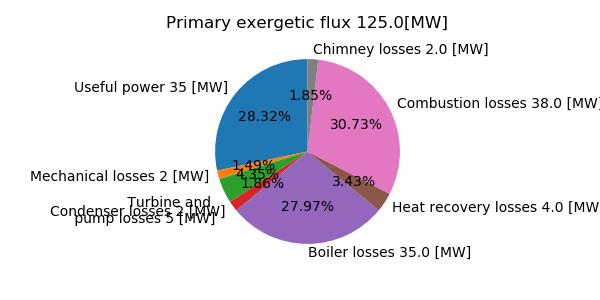
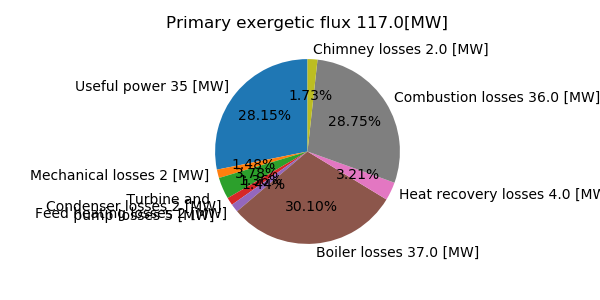
ST_feed for one

diff --git a/ST_feed2.py b/ST_feed2.py
@@ -16,6 +16,15 @@ import matplotlib.pyplot as plt
 from pyXSteam.XSteam import XSteam # see documentation here: https://pypi.org/project/pyXSteam/
 
 # Add your packages here:
+steamTable = XSteam(XSteam.UNIT_SYSTEM_MKS); # m/kg/sec/°C/bar/W
+def cpl_t(T):
+    return steamTable.CpL_t(T)
+def Xsteam_integrate(f,T1,T2,dt):
+    values = np.arange(T1,T2,dt)
+    fvalues = np.zeros(len(values))
+    for i in range(len(fvalues)):
+        fvalues[i] = f(values[i])
+    return sum(fvalues*dt)
 
 def psychrometrics(Tdb,absolute_humidity):
     """
@@ -82,7 +91,7 @@ def ST(ST_inputs):
         Pe = 250e3;#250 kWe
     nsout = arg_in.nsout;
     if nsout ==-1.:
-        nsout = 1;#15°C
+        nsout = 0;#15°C
     reheat = arg_in.reheat
     if reheat == -1:
         reheat = 0;# Number of reheating
@@ -154,9 +163,8 @@ def ST(ST_inputs):
 
     # Put all temperatures in Kelvin
     T_max,T_cond_out, T_exhaust, T0, T_ext, T_drum= T_max+273.15,T_cond_out+273.15, T_exhaust+273.15, T0+273.15, T_ext+273.15, Tdrum +273.15 #K
-    print(nsout)
-    results = np.zeros((6,4+2*nsout+2*reheat)) # 6 initial states, states 1,2,3,6 if no reheat then 7 = 1 states 4 and 5 is for the reheating
 
+    results = np.zeros((6,5+2*nsout+2*reheat)) # 6 initial states, states 1,2,3,6,7 if no reheat then 7 = 1 states 4 and 5 is for the reheating
     ## cycle definition
     # =================
     # Your job
@@ -177,7 +185,7 @@ def ST(ST_inputs):
     #        As a conclusion, what can we do to decrease this loss?
 
     """
-    1) Initial
+    1) Pump
     """
     T1= T_cond_out+TpinchCond
     p1 = steamTable.psat_t(T1-273.15)
@@ -188,7 +196,6 @@ def ST(ST_inputs):
     e1 = h1-T0*s1#kJ/kg
     results[:,0]=T1-273.15,p1,h1,s1,x1,e1
 
-
     p2=p3_hp#bar
     #s2=s1
     # h2s=steamTable.h_ps(p2,s1)
@@ -198,8 +205,7 @@ def ST(ST_inputs):
     s2 = steamTable.s_ph(p2,h2)
     x2= None # eau non saturée
     e2 = h2-T0*s2#kJ/kg
-    results[:,1+nsout]=T2-273.25,p2,h2,s2,x2,e2
-
+    results[:,1]=T2-273.25,p2,h2,s2,x2,e2
 
     """
     2) Boiler
@@ -212,7 +218,9 @@ def ST(ST_inputs):
     s3=steamTable.s_pt(p3,T3-273.15)
     x3 = None # vapeur surchauffée
     e3 = h3-T0*s3#kJ/kg
-    results[:,2+nsout]=T3-273.35,p3,h3,s3,x3,e3
+    results[:,2]=T3-273.35,p3,h3,s3,x3,e3
+
+    Q1 = h3-h2 #kJ/kg_v
 
     """
     3) Turbine
@@ -227,7 +235,7 @@ def ST(ST_inputs):
     s62 = x6*steamTable.sV_p(p6)+(1-x6)*steamTable.sL_p(p6)
     T6 = steamTable.t_ph(p6,h6)+273.15#K
     e6 = h6-T0*s6 #kJ/kg#kJ/kg
-    results[:,3+2*nsout]=T6-273.15,p6,h6,s6,x6,e6
+    results[:,3]=T6-273.65,p6,h6,s6,x6,e6
 
     """
     4) FWH
@@ -248,13 +256,16 @@ def ST(ST_inputs):
         dt = 0.1
 
         hb1 = steamTable.hL_t(x-273.15) #kJ/kg_v
-        pb1 = steamTable.psat_t(x-273.15) #bar
+        def function_FHW_p(y): #x = bar
+            hobbit = steamTable.hL_p(y)
+            return hb1-hobbit
 
+        pb1 = fsolve(function_FHW_p,4) #bar
         #find state 61
         p61=pb1 #isobare
+        print('pb1',pb1, steamTable.psat_t(x-273.15))
         h61s = steamTable.h_ps(p61,s3)
         h61 = -eta_SiT*(h3-h61s)+h3
-
         #enthalpie ratio
         X= (hb1-h1)/(h61-hb1)
 
@@ -276,33 +287,56 @@ def ST(ST_inputs):
     sb1 = steamTable.sL_t(Tb1-273.15) #kJ/kg
     xb1=0
     eb1 = hb1-T0*sb1
-    i=0 # i =range(nsout)
-    results[:,1+i]=Tb1-273.15,pb1,hb1,sb1,xb1,eb1
 
     #state 6I
-    p61=pb1 #isobare
-    h61s = steamTable.h_ps(p61,s3)
-    h61 = -eta_SiT*(h3-h61s)+h3
-    T61 = steamTable.t_ph(p61,h61)+273.15
-    s61 = steamTable.s_ph(p61,h61)
-    x61 = None
-    e61 = h61-T0*s61
-    results[:,3+nsout+i]=T61-273.35,p61,h61,s61,x61,e61
+    print(T1,Tb1,T2_prime)
 
-    X= (hb1-h1)/(h61-hb1)
+    #maniere B
+    # trouver h6I
+    #h6I = 0.5*(h3-h6)+h6
+    # #trouver la pression correspondante
+    # def function_FWH_pressure(x):
+    #     h6Is = steamTable.h_ps(x,s3)
+    #     return (h6I-h6)/(h6Is-h6)-eta_SiT
+    # p6I = fsolve(function_FWH_pressure,4)
+    # T6I = steamTable.t_ph(p6I,h6I)
+    # s6I = steamTable.s_ph(p6I,h6I)
+    # x6I = None
+    # e6I = h6I-T0*s6I
+    # print(T6I)
 
-    """
-    4) pump
-    """
-    p2=p3_hp#bar
-    h2=v1*(p2-pb1)*10**2/eta_SiC+hb1#kJ/kg
-    T2= steamTable.t_ph(p2,h2)+273.15#K
-    s2 = steamTable.s_ph(p2,h2)
-    x2= None # eau non saturée
-    e2 = h2-T0*s2#kJ/kg
-    results[:,1+nsout]=T2-273.25,p2,h2,s2,x2,e2
+    #trouver  l 'etat b
+    # TbI = steamTable.tsat_p(p6I)
 
-    Q1 = (1+X)*(h3-h2) #kJ/kg_v
+    #maniere C
+    # hb1 = 0.5*(h2_prime-h1)+h1
+    #
+    # def function_FHW_p(x): #x = bar
+    #     hobbit = steamTable.hL_p(x)
+    #     return hb1-hobbit
+    # pb1 = fsolve(function_FHW_p,4)
+    # p61 = pb1
+    #
+    # #trouver les etats b1
+    # Tb1 = steamTable.tsat_p(pb1)
+    # sb1 = steamTable.s_ph(pb1,hb1)
+    # print('sb1',sb1)
+    # xb1 = 0
+    # eb1 = hb1-T0*sb1
+    #
+    # #trouver h6I et ensuite les etats de b
+    # h61s = steamTable.h_ps(p61,s3)
+    # h61 = -eta_SiT*(h3-h61s)+h3
+    # T61 = steamTable.t_ph(p61,h61)
+    # s61 = steamTable.s_ph(p61,h61)
+    # x61 = None
+    # e61 = h61-T0*s61
+    # print('h61',h61,'T61',T61)
+    #
+    #
+    # X = (hb1-h1)/(h61-hb1)
+    # print('X',X)
+
 
     """
     5) Condenser
@@ -317,13 +351,21 @@ def ST(ST_inputs):
     e_cond_water_in = h_cond_water_in-T0*s_cond_water_in
     e_cond_water_out = h_cond_water_out-T0*s_cond_water_out
 
+    # h_lv = steamTable.hV_t(T4-273.15)-steamTable.hL_t(T4-273.15)
+    # print(h_lv)
+    # Cpl = steamTable.CpL_t(T1-273.15)
+    # print(h_lv+Cpl*(T6-T1),Q2,"here")
+    # print('Cpl',Cpl,steamTable.CpL_t(T1-273.15))
+    #results del l 'etat 7
+    results[:,4]=T1-273.15,p1,h1,s1,x1,e1
+
     """
     6) Mechanical work:
     """
-    Wm_t = h3-h6 + X*(h3-h61) #kJ/kg
-    Wm_tmax = e3-e6 + X*(e3-e61)
-    Wm_c = h2-hb1
-    Wm_cmax = e2-eb1
+    Wm_t = h3-h6
+    Wm_tmax = e3-e6
+    Wm_c = h2-h1
+    Wm_cmax = e2-e1
     Wm = Wm_t-Wm_c
     Wm_max = Wm_tmax-Wm_cmax
 
@@ -358,7 +400,7 @@ def ST(ST_inputs):
     P_chimney = boiler_outputs.P_chimney
     #P_prim = P_boiler+P_chimney #-P_air_in mais =0 = +/- LHV*mc
     P_prim = boiler_outputs.LHV*mc
-    print("energie chequ up",P_prim,P_chimney+Pf_mec+P_cond+Pe)
+    # print("energie chequ up",P_prim,P_chimney+Pf_mec+P_cond+Pe)
     # print("P_chimney",P_chimney,"Q_boiler",Q_boiler,"P_cond",P_cond,"Pf_mec",Pf_mec,"Pe",Pe)
     """
     11) Exergy efficiencies
@@ -391,20 +433,19 @@ def ST(ST_inputs):
     L_HR = boiler_outputs.L_HR
     L_exhaust = boiler_outputs.L_exhaust
 
+
+
     L_boiler = mv*(e2-e3)+mf*(e_boiler_in-e_boiler_out)
 
-    m_cond = 1/(1+X)*mv
-    ms = X/(1+X)*mv
+    L_turbine = T0*(s6-s3)*mv
+    L_pump = T0*(s2-s1)*mv#kW
 
-    L_turbine = T0*(s6-s3)*m_cond + T0*(s6-s61)*ms
-    L_pump = T0*(s2-sb1)*mv#kW
+    L_cond=mv*(e6-e1)+mv*massflow_condenser_coeff*(e_cond_water_in-e_cond_water_out)
 
-    L_cond=m_cond*(e6-e1)+m_cond*massflow_condenser_coeff*(e_cond_water_in-e_cond_water_out)
-    L_exchanger_soutex = ms*(e61-eb1)+m_cond*(e1-eb1)
     #Il manque ce qui sort de la tour de refroidissement
 
     ec = boiler_outputs.e_c
-    print('exegie chequ up',ec*mc,Pe+Pf_mec+L_turbine+L_pump+L_boiler+L_cond+L_exhaust+L_HR+L_comb+L_exchanger_soutex)
+    print('exegie chequ up', ec*mc,Pe+Pf_mec+L_turbine+L_pump+L_boiler+L_cond+L_exhaust+L_HR+L_comb)
 
     """
     Last) Define output arguments
@@ -412,7 +453,6 @@ def ST(ST_inputs):
     outputs = ST_arg.ST_outputs();
     outputs.eta[0:]= [eta_cyclen,eta_toten,eta_cyclex,eta_totex,eta_gen,eta_gex,eta_combex,eta_chemex,eta_condex,eta_transex]
     outputs.daten[0:]=[P_chimney, Pf_mec, P_cond]
-    outputs.datex[0:]=[Pf_mec,0,0,L_comb,L_cond,L_exhaust,0]
     outputs.dat= results
     outputs.massflow = boiler_outputs.boiler_massflow #[ma,0,mc,mf]
     outputs.massflow[1] = mv
@@ -430,35 +470,6 @@ def ST(ST_inputs):
     outputs.HR.T_cold_in = boiler_outputs.T_cold_in
     outputs.HR.T_cold_out = boiler_outputs.T_cold_out
     outputs.HR.T_dew = boiler_outputs.T_dew #still gave to define
-
-    """
-    13) Pie charts and cycle graphs
-    """
-    # pie chart of the energie flux in the cycle
-    fig,ax =  plt.subplots(figsize=(6, 3), subplot_kw=dict(aspect="equal"))
-    data = [Pe,Pf_mec,P_cond,P_chimney]
-    labels = ['Useful power {v} [MW]'.format(v=round(Pe/1000)),'Mechanical losses {v} [MW]'.format(v=round(Pf_mec/1000)),'Condensor losses {v} [MW]'.format(v=round(P_cond/1000)),'Chimney losses {v} [MW]'.format(v=round(P_chimney/1000))]
-
-    ax.pie(data,labels = labels,autopct='%1.2f%%',startangle = 90)
-    ax.set_title("Primary energetic flux "+ str(round(P_prim/1000)) + "[MW]")
-
-    # pie chart of the exergie flux in the cycle
-    fig2,ax =  plt.subplots(figsize=(6, 3), subplot_kw=dict(aspect="equal"))
-    data = [Pe,Pf_mec,L_turbine+L_pump,L_cond,L_exchanger_soutex,L_boiler,L_HR,L_comb,L_exhaust]
-    labels = ['Useful power {v} [MW]'.format(v=round(Pe/1000)),'Mechanical losses {v} [MW]'.format(v=round(Pf_mec/1000)),' \n \n Turbine and \n pump losses {v} [MW]'.format(v=round((L_turbine+L_pump)/1000)),
-              'Condenser losses {v} [MW]'.format(v=round(L_cond/1000)),'Feed heating losses {v} [MW]'.format(v=round(L_exchanger_soutex/1000)),
-              'Boiler losses {v} [MW]'.format(v=round(L_boiler/1000)),'Heat recovery losses {v} [MW]'.format(v=round(L_HR/1000)),
-              'Combustion losses {v} [MW]'.format(v=round(L_comb/1000)),'Chimney losses {v} [MW]'.format(v=round(L_exhaust/1000))]
-    plt.savefig('figures/energie_pie.png')
-
-    ax.pie(data,labels = labels,autopct="%1.2f%%",startangle = 90)
-    ax.set_title("Primary exergetic flux "+ str(round(ec*mc/1000)) + "[MW]")
-    plt.savefig('figures/exergie_pie.png')
-
-    fig = [fig,fig2]
-    outputs.fig = fig
-    if (ST_inputs.DISPLAY == 1):
-        plt.show()
 
     return outputs;
 

diff --git a/ST.py b/ST.py
@@ -230,7 +230,7 @@ def ST(ST_inputs):
     e6 = h6-T0*s6 #kJ/kg#kJ/kg
     results[:,3]=T6-273.65,p6,h6,s6,x6,e6
 
-    
+
 
     """
     4) Condenser
@@ -337,7 +337,7 @@ def ST(ST_inputs):
     L_cond=mv*(e6-e1)+mv*massflow_condenser_coeff*(e_cond_water_in-e_cond_water_out)
 
     #Il manque ce qui sort de la tour de refroidissement
-
+    L_transex = 0
     ec = boiler_outputs.e_c
     print('exegie chequ up', ec*mc,Pe+Pf_mec+L_turbine+L_pump+L_boiler+L_cond+L_exhaust+L_HR+L_comb)
 
@@ -347,6 +347,7 @@ def ST(ST_inputs):
     outputs = ST_arg.ST_outputs();
     outputs.eta[0:]= [eta_cyclen,eta_toten,eta_cyclex,eta_totex,eta_gen,eta_gex,eta_combex,eta_chemex,eta_condex,eta_transex]
     outputs.daten[0:]=[P_chimney, Pf_mec, P_cond]
+    outputs.datex[0:]=[Pf_mec,0,0,L_comb,L_cond,L_exhaust,L_transex]
     outputs.dat= results
     outputs.massflow = boiler_outputs.boiler_massflow #[ma,0,mc,mf]
     outputs.massflow[1] = mv
